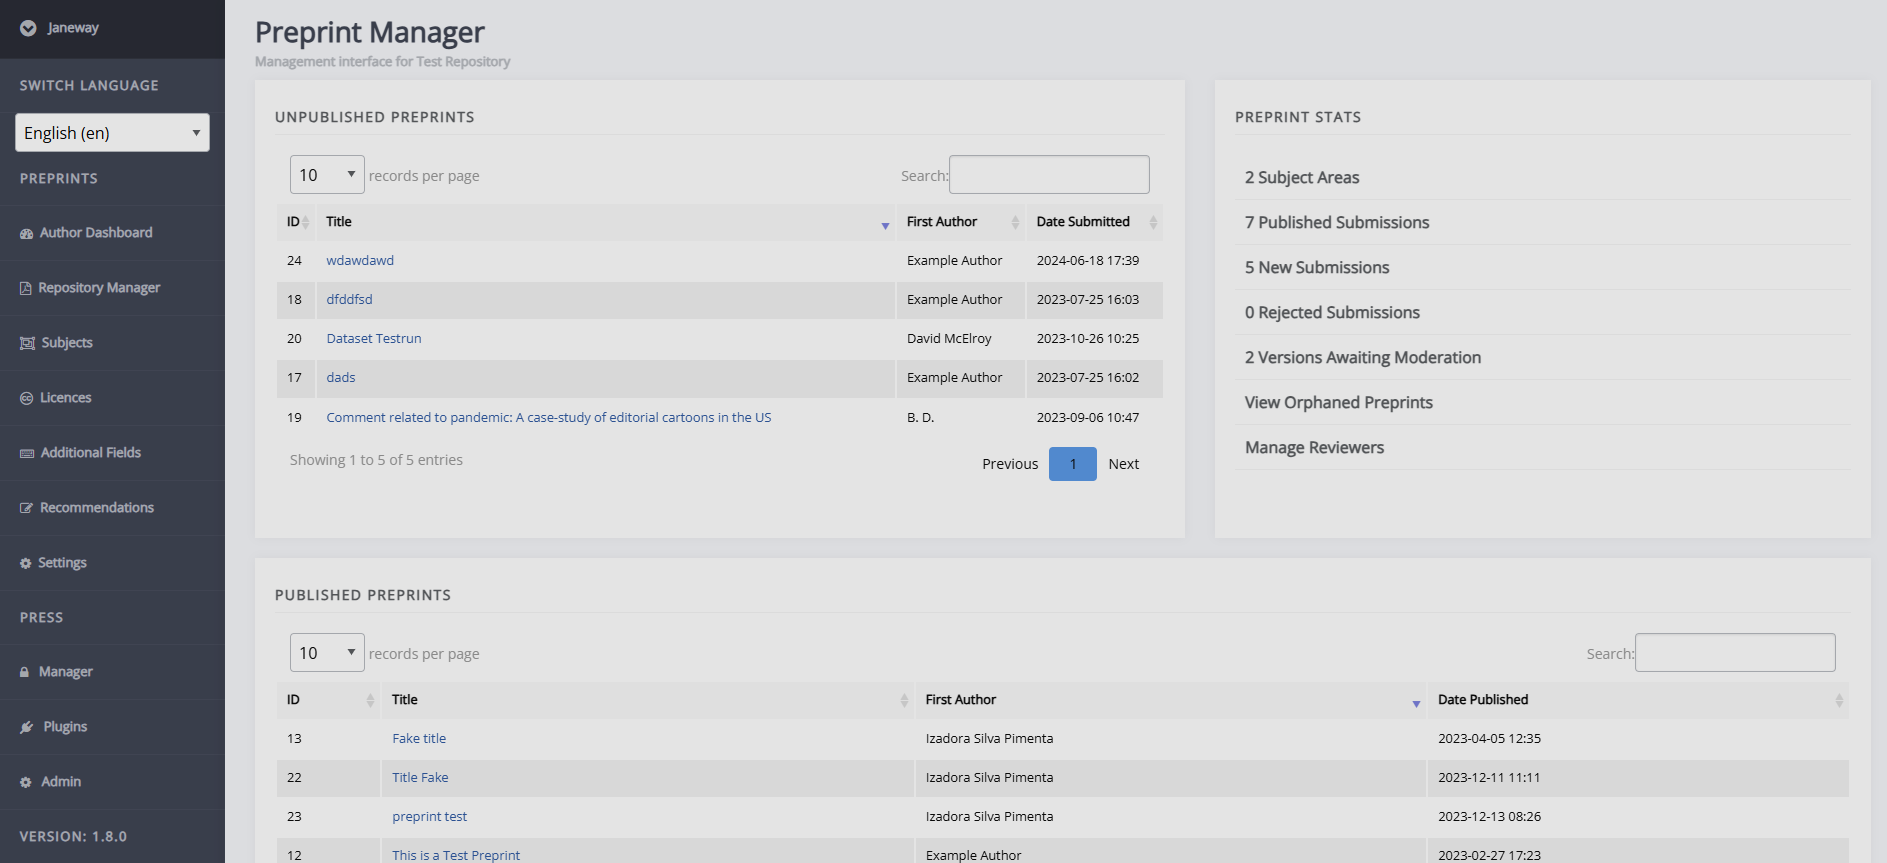
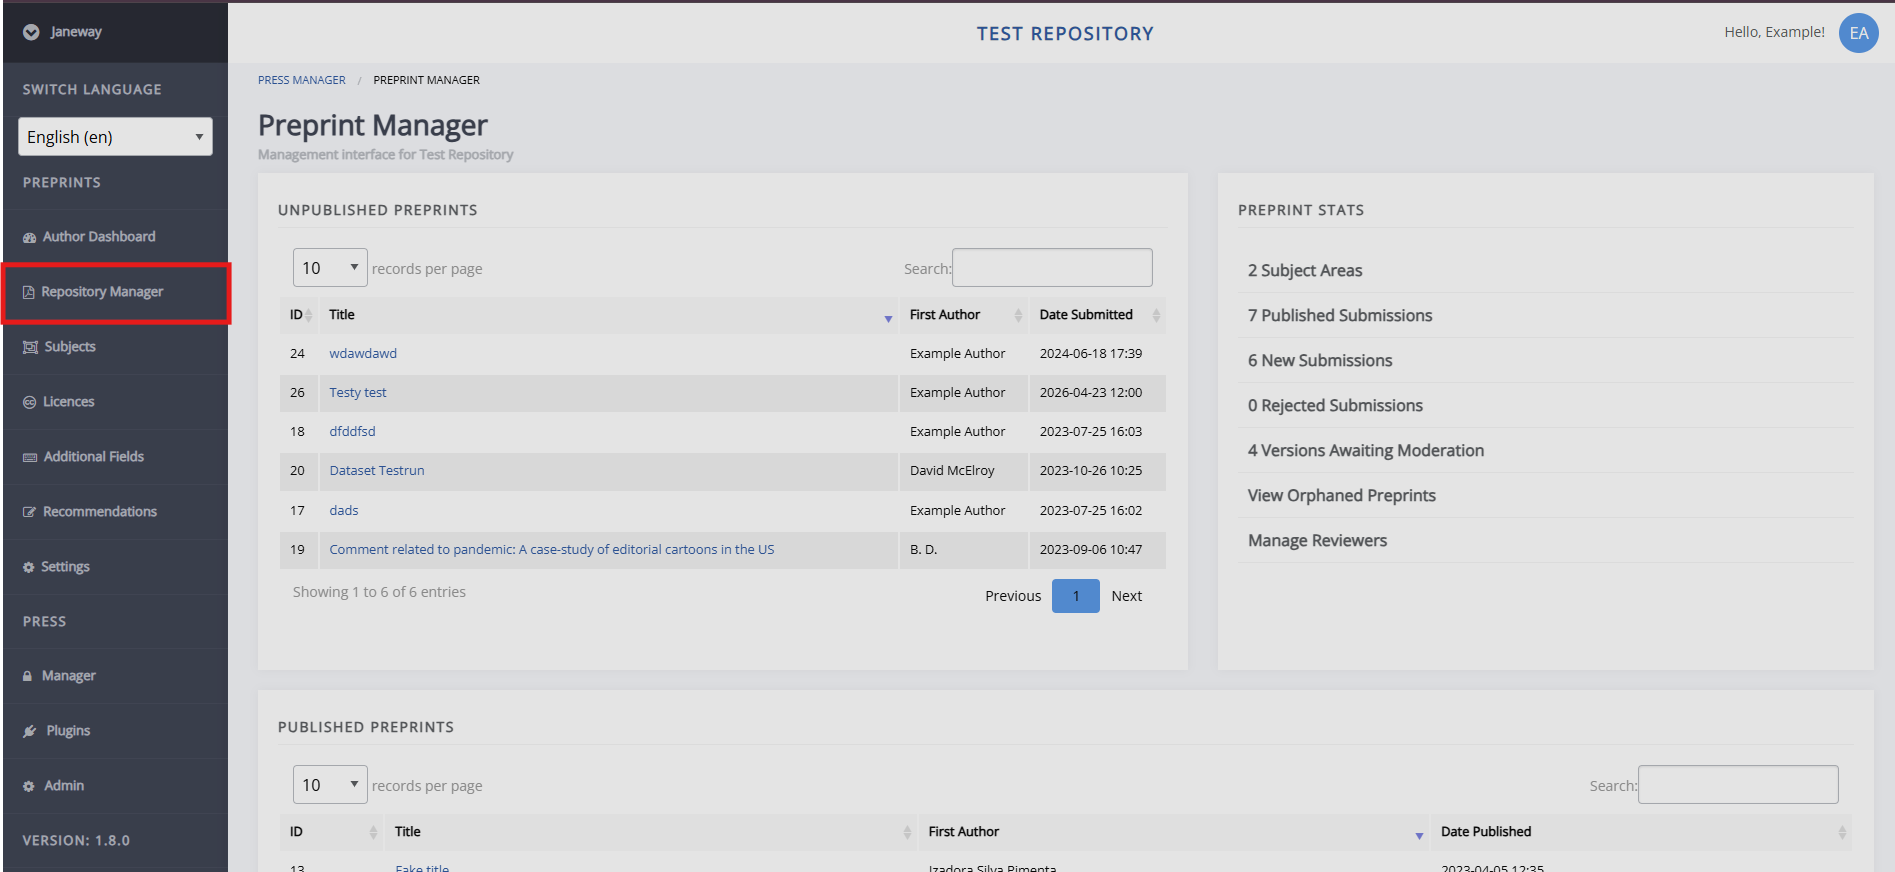
More preprint updates

diff --git a/content/support/repository/repositories-moderator.md b/content/support/repository/repositories-moderator.md
@@ -1,0 +1,45 @@
+title: Moderator guide
+
+# Moderator guide
+
+As a moderator you can find (un)published preprints and preprint stats on the Repository manager. This can be access through the left-hand sidemenu.
+
+![" "](../images/repositories/repo-manager.png)
+
+## Published preprints
+
+Clicking on the title of a preprint will take you to the preprint dashboard. Here you can view the preprint's metadata, (supplementary) files, versions and the control panel.
+
+### Controls
+
+* Edit metadata
+* Contact the owner
+    This lets you contact the primary author of the preprint by email. You will be able to include attachments and BCC others.
+* Log
+    This opens a log of all emails sent from the system regarding this preprint.
+* Comments
+    Comments made on the published preprint. From here you can review, publish and delete them.
+    <!--What does "review" do, practically? It moves it to old, but how would it impact users? -->
+* Invited review comments
+    From here, you can invite reviews, see active reviews, and see declined and withdrawn reviews. To send someone a review invitation, they need to have been added as a reviewer first. Either through **Manage reviewers** on the Repository manager page or by clicking **Manage reviewers** on the review invitation screen.
+* Discussion
+    Lets you view, open new, and comment on internal discussion threads. <!--Can the author(s) see these?-->
+* Edit published date
+* Un-published this article
+* Send to journal
+    This lets you send the preprint to a journal on the press. You will select the license, section (article type) and the stage to which it will be send.
+    <!--I'll need to look into why 'Force' is used.-->
+
+## Unpublished preprints
+
+### Controls
+
+![" "](../images/repositories/repo-preprint-controls.png)
+
+Similar to published preprints, the controls block will display the preprint's status and primary identifier, and present various options. These are the same as those for published preprints, except that 'Edit published date' and 'Un-publish this article' have been replaced with 'Accept article' and 'Reject article'.
+
+### Accepting preprints
+
+### Rejecting preprints
+
+## Preprints awaiting moderation

diff --git a/content/support/repository/repositories-settings.md b/content/support/repository/repositories-settings.md
@@ -21,3 +21,9 @@ This opens up the repo wizard, which is used for both configurring a new reposit
     Sets the repository as live.
 
 Additional settings for licenses, additional submission fields, subjects. <!-- missing hyperlink-->
+
+## Licenses
+
+## Subjects
+
+## Additional submission fields
